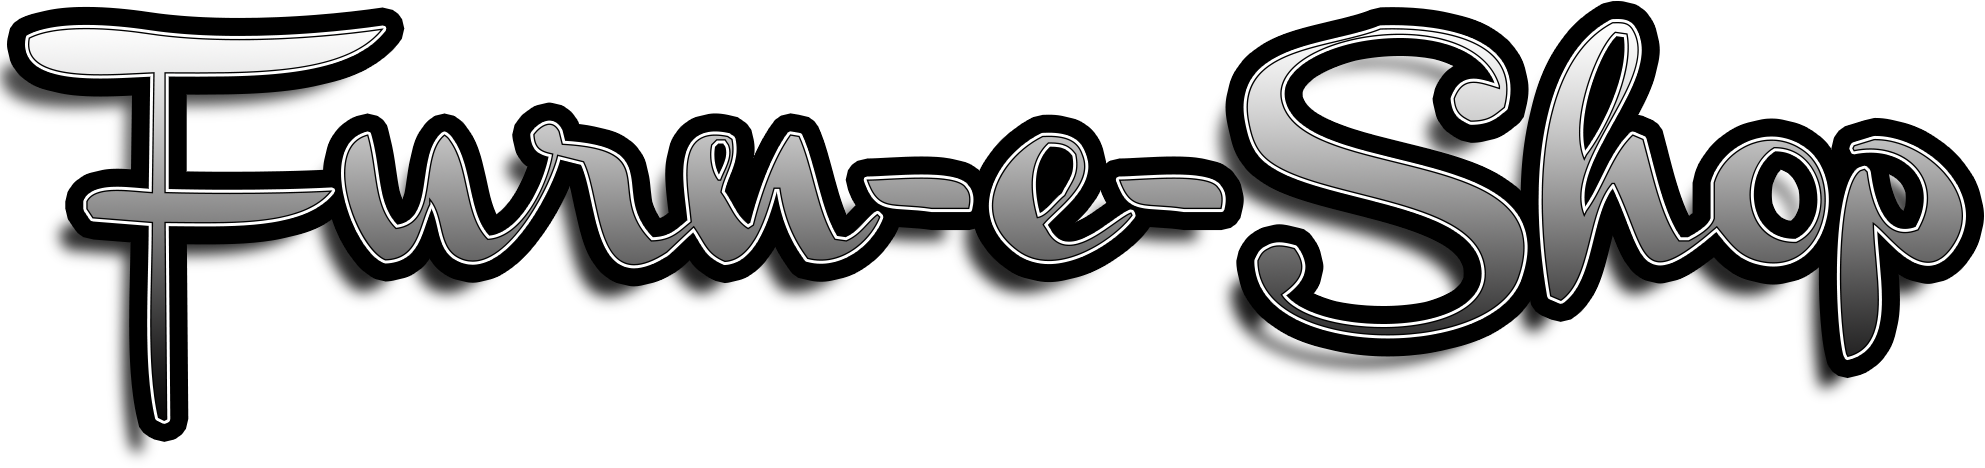
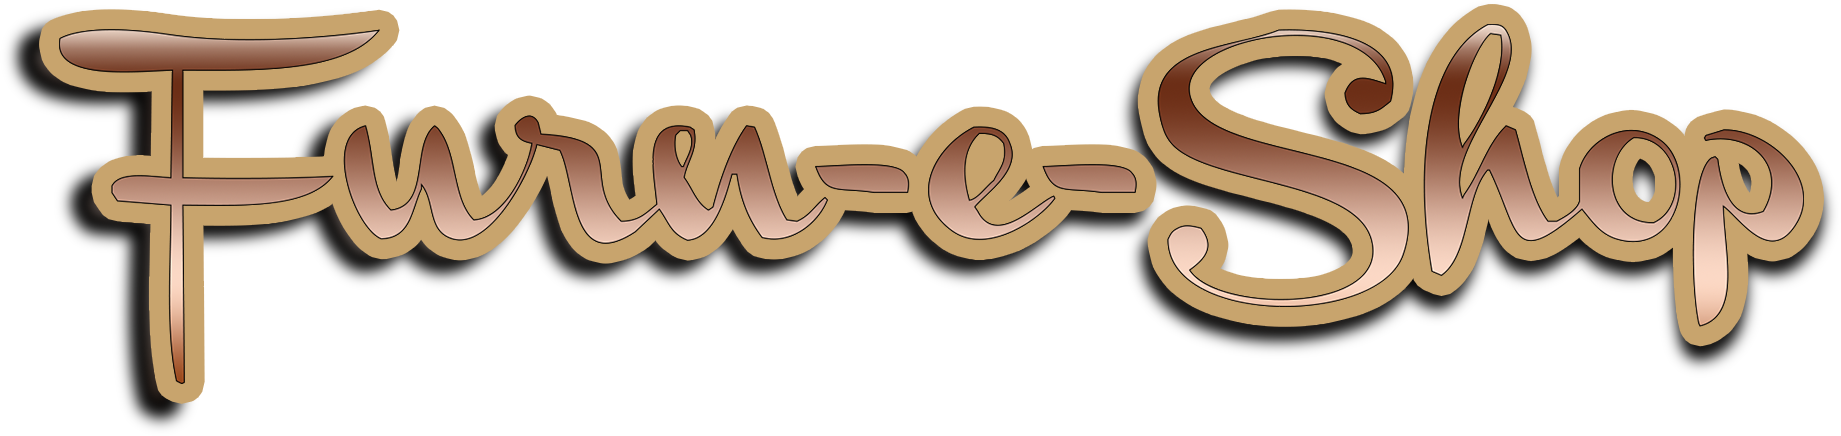
navbar and sidebar bacground image

diff --git a/src/components/partials/Sidebar.js b/src/components/partials/Sidebar.js
@@ -1,5 +1,5 @@
 import React from "react"
-import logo from "../../manager/assets/logo.svg"
+import logo from "../../manager/assets/furneshop.png"
 import { Link } from "react-router-dom"
 import { useProductsContext } from "../../manager"
 import { FaTimes } from "react-icons/fa"
@@ -7,6 +7,8 @@ import { links } from "../../manager/utils/variables"
 import styled from "styled-components"
 import CartButtons from "./CartButtons"
 import { useUserContext } from "../../manager"
+
+import bg from "../../manager/assets/wood-pattern.png";
 
 const Sidebar = () => {
   const { isSidebarOpen, closeSidebar } = useProductsContext();
@@ -55,7 +57,7 @@ const SidebarContainer = styled.div`
   }
   .logo {
     justify-self: center;
-    height: 45px;
+    height: 50px;
   }
   .links {
     margin-bottom: 2rem;
@@ -84,7 +86,8 @@ const SidebarContainer = styled.div`
     left: 0;
     width: 100%;
     height: 100%;
-    background: var(--clr-white);
+    background-image: url(${bg});
+    background-color: #AB7A5F;
     transition: var(--transition);
     transform: translate(-100%);
     z-index: -1;

diff --git a/src/components/partials/Navbar.js b/src/components/partials/Navbar.js
@@ -7,6 +7,8 @@ import { links } from "../../manager/utils/variables";
 import CartButtons from "./CartButtons";
 import { useProductsContext, useUserContext } from "../../manager";
 
+import bg from "../../manager/assets/wood-pattern.png";
+
 const Nav = () => {
   const { openSidebar } = useProductsContext();
 
@@ -35,6 +37,9 @@ const NavContainer = styled.nav`
   display: flex;
   align-items: center;
   justify-content: center;
+  background-image: url(${bg});
+  background-color: #AB7A5F;
+  border-bottom: 1px solid white;
 
   .nav-center {
     width: 90vw;
@@ -47,6 +52,7 @@ const NavContainer = styled.nav`
     justify-content: space-between;
     img {
       width: 300px;
+      margin-top: 10px;
       margin-left: -15px;
     }
   }
